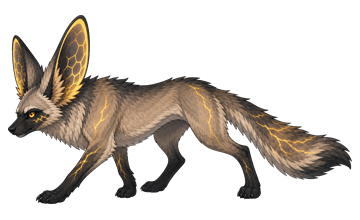
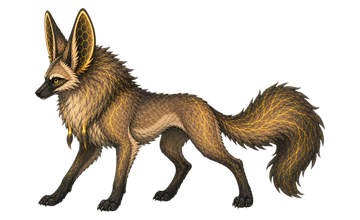
Redesign Sonarion and Resonarion visuals

diff --git a/src/__tests__/integration/cosmoidCodexScreen.test.tsx b/src/__tests__/integration/cosmoidCodexScreen.test.tsx
@@ -219,4 +219,32 @@ describe('CosmoidCodexScreen', () => {
     fireEvent.click(screen.getByRole('button', { name: 'Cocoonot, captured' }));
     expect(screen.getByText("Kip's Notes")).toBeInTheDocument();
   });
+
+  it('shows the Level 4 pack journal artwork and notes after capture', () => {
+    const level4Profile: Profile = {
+      ...profile,
+      storyProgression: StoryProgression.DEFEAT_LEVEL_4,
+      capturedSpeciesIds: ['sonarion', 'resonarion'],
+    };
+
+    render(<CosmoidCodexScreen profile={level4Profile} onBack={() => {}} />);
+
+    fireEvent.click(screen.getByRole('button', { name: 'Sonarion, captured' }));
+    expect(
+      screen
+        .getByRole('img', { name: 'Sonarion field sketch' })
+        .getAttribute('src')
+    ).toContain(encodeURIComponent('/UI/Journal/sonarion_journal.png'));
+    expect(screen.getByText(/no one dares chase them/i)).toBeInTheDocument();
+
+    fireEvent.click(
+      screen.getByRole('button', { name: 'Resonarion, captured' })
+    );
+    expect(
+      screen
+        .getByRole('img', { name: 'Resonarion field sketch' })
+        .getAttribute('src')
+    ).toContain(encodeURIComponent('/UI/Journal/resonarion_journal.png'));
+    expect(screen.getByText(/golden static races/i)).toBeInTheDocument();
+  });
 });

diff --git a/src/constants/creatures.ts b/src/constants/creatures.ts
@@ -184,6 +184,9 @@ export const SONARION: CosmoidTemplate = {
   },
   baseExperience: 58,
   iconImg: '/UI/Icons/sonarion_icon.png',
+  journalImg: '/UI/Journal/sonarion_journal.png',
+  journalEntry:
+    "Ironbell's Sonarion know no one dares chase them. They mimic market bells, snatch unattended meals, then loose a two-toned howl for Resonarion when cornered.",
   spriteUrl: '/battles/cosmoids/sonarion_down.png',
   battleSpriteUrl: '/battles/cosmoids/sonarion_left.png',
   movementId: 'lizard',
@@ -209,6 +212,9 @@ export const RESONARION: CosmoidTemplate = {
   },
   baseExperience: 90,
   iconImg: '/UI/Icons/resonarion_icon.png',
+  journalImg: '/UI/Journal/resonarion_journal.png',
+  journalEntry:
+    "At a Sonarion's two-toned call, golden static races through its enlarged neck ruff and heavy tail tuft. Once charged, it barrels through the market to the rescue.",
   spriteUrl: '/battles/cosmoids/resonarion_down.png',
   battleSpriteUrl: '/battles/cosmoids/resonarion_left.png',
   movementId: 'lizard',

diff --git a/src/__tests__/utils/cosmoidJournal.test.ts b/src/__tests__/utils/cosmoidJournal.test.ts
@@ -49,6 +49,24 @@ describe("Kip's Journal derivation", () => {
         )
       )
     ).toEqual(['mouse_1', 'harlequill', 'mopup', 'bug_stage_1', 'bettle']);
+
+    expect(
+      Array.from(
+        getJournalSeenSpeciesIds(
+          createProfile({
+            storyProgression: StoryProgression.DEFEAT_LEVEL_4,
+          })
+        )
+      )
+    ).toEqual([
+      'mouse_1',
+      'harlequill',
+      'mopup',
+      'bug_stage_1',
+      'bettle',
+      'sonarion',
+      'resonarion',
+    ]);
   });
 
   it('does not invent evolution history for a legacy profile', () => {

diff --git a/src/__tests__/constants/creatureJournalEntries.test.ts b/src/__tests__/constants/creatureJournalEntries.test.ts
@@ -11,6 +11,8 @@ const CURRENT_JOURNAL_SPECIES_IDS = [
   'bug_stage_2',
   'bug_stage_3',
   'bettle',
+  'sonarion',
+  'resonarion',
 ] as const;
 
 describe("Kip's journal entries", () => {
